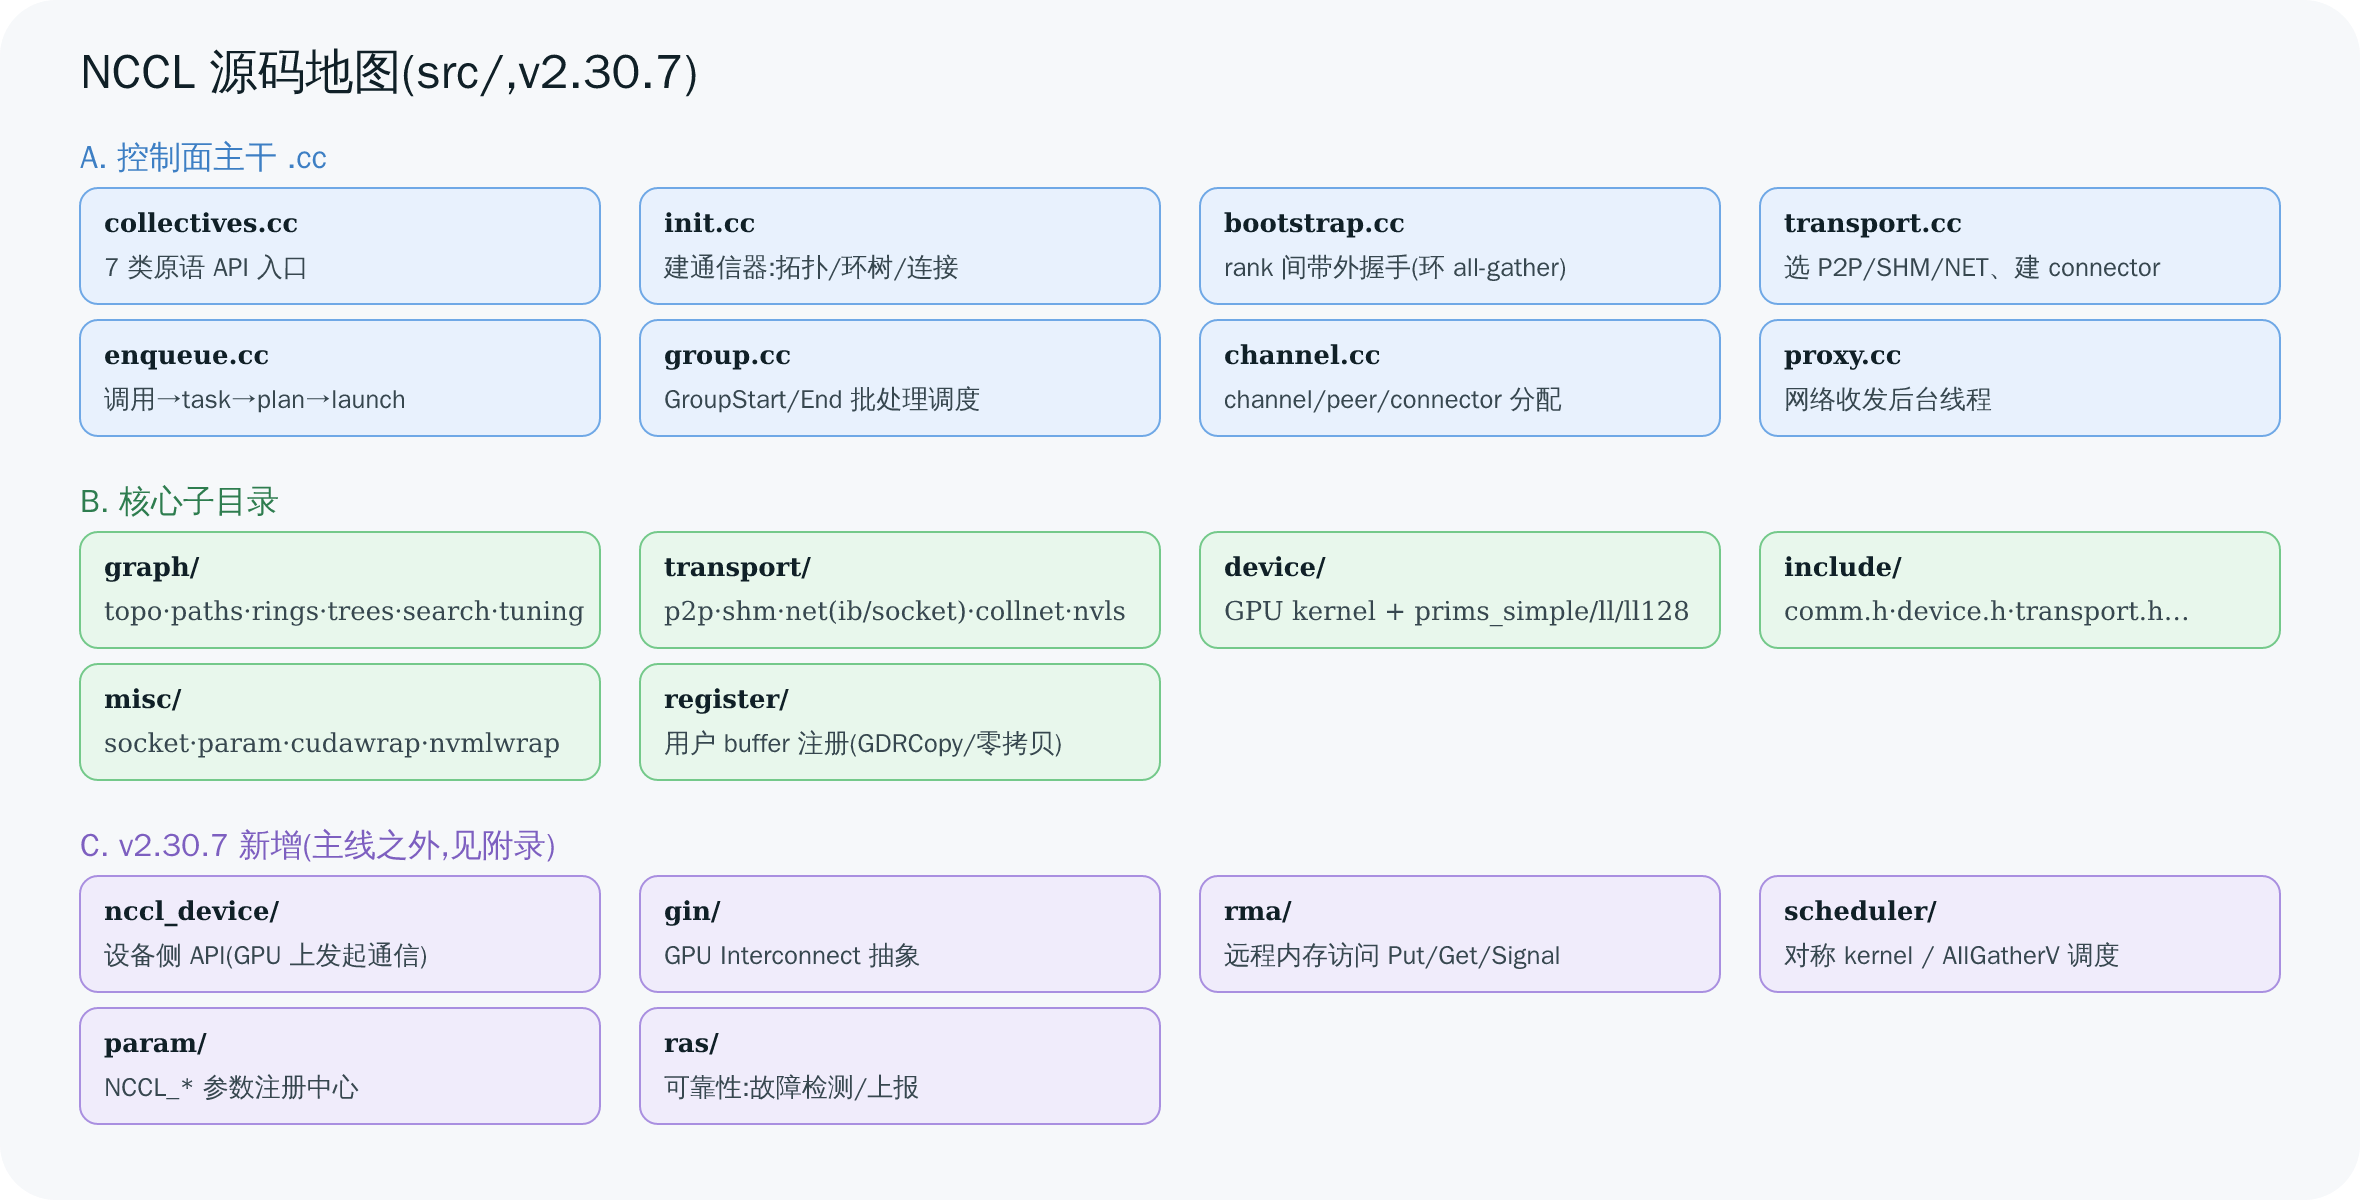
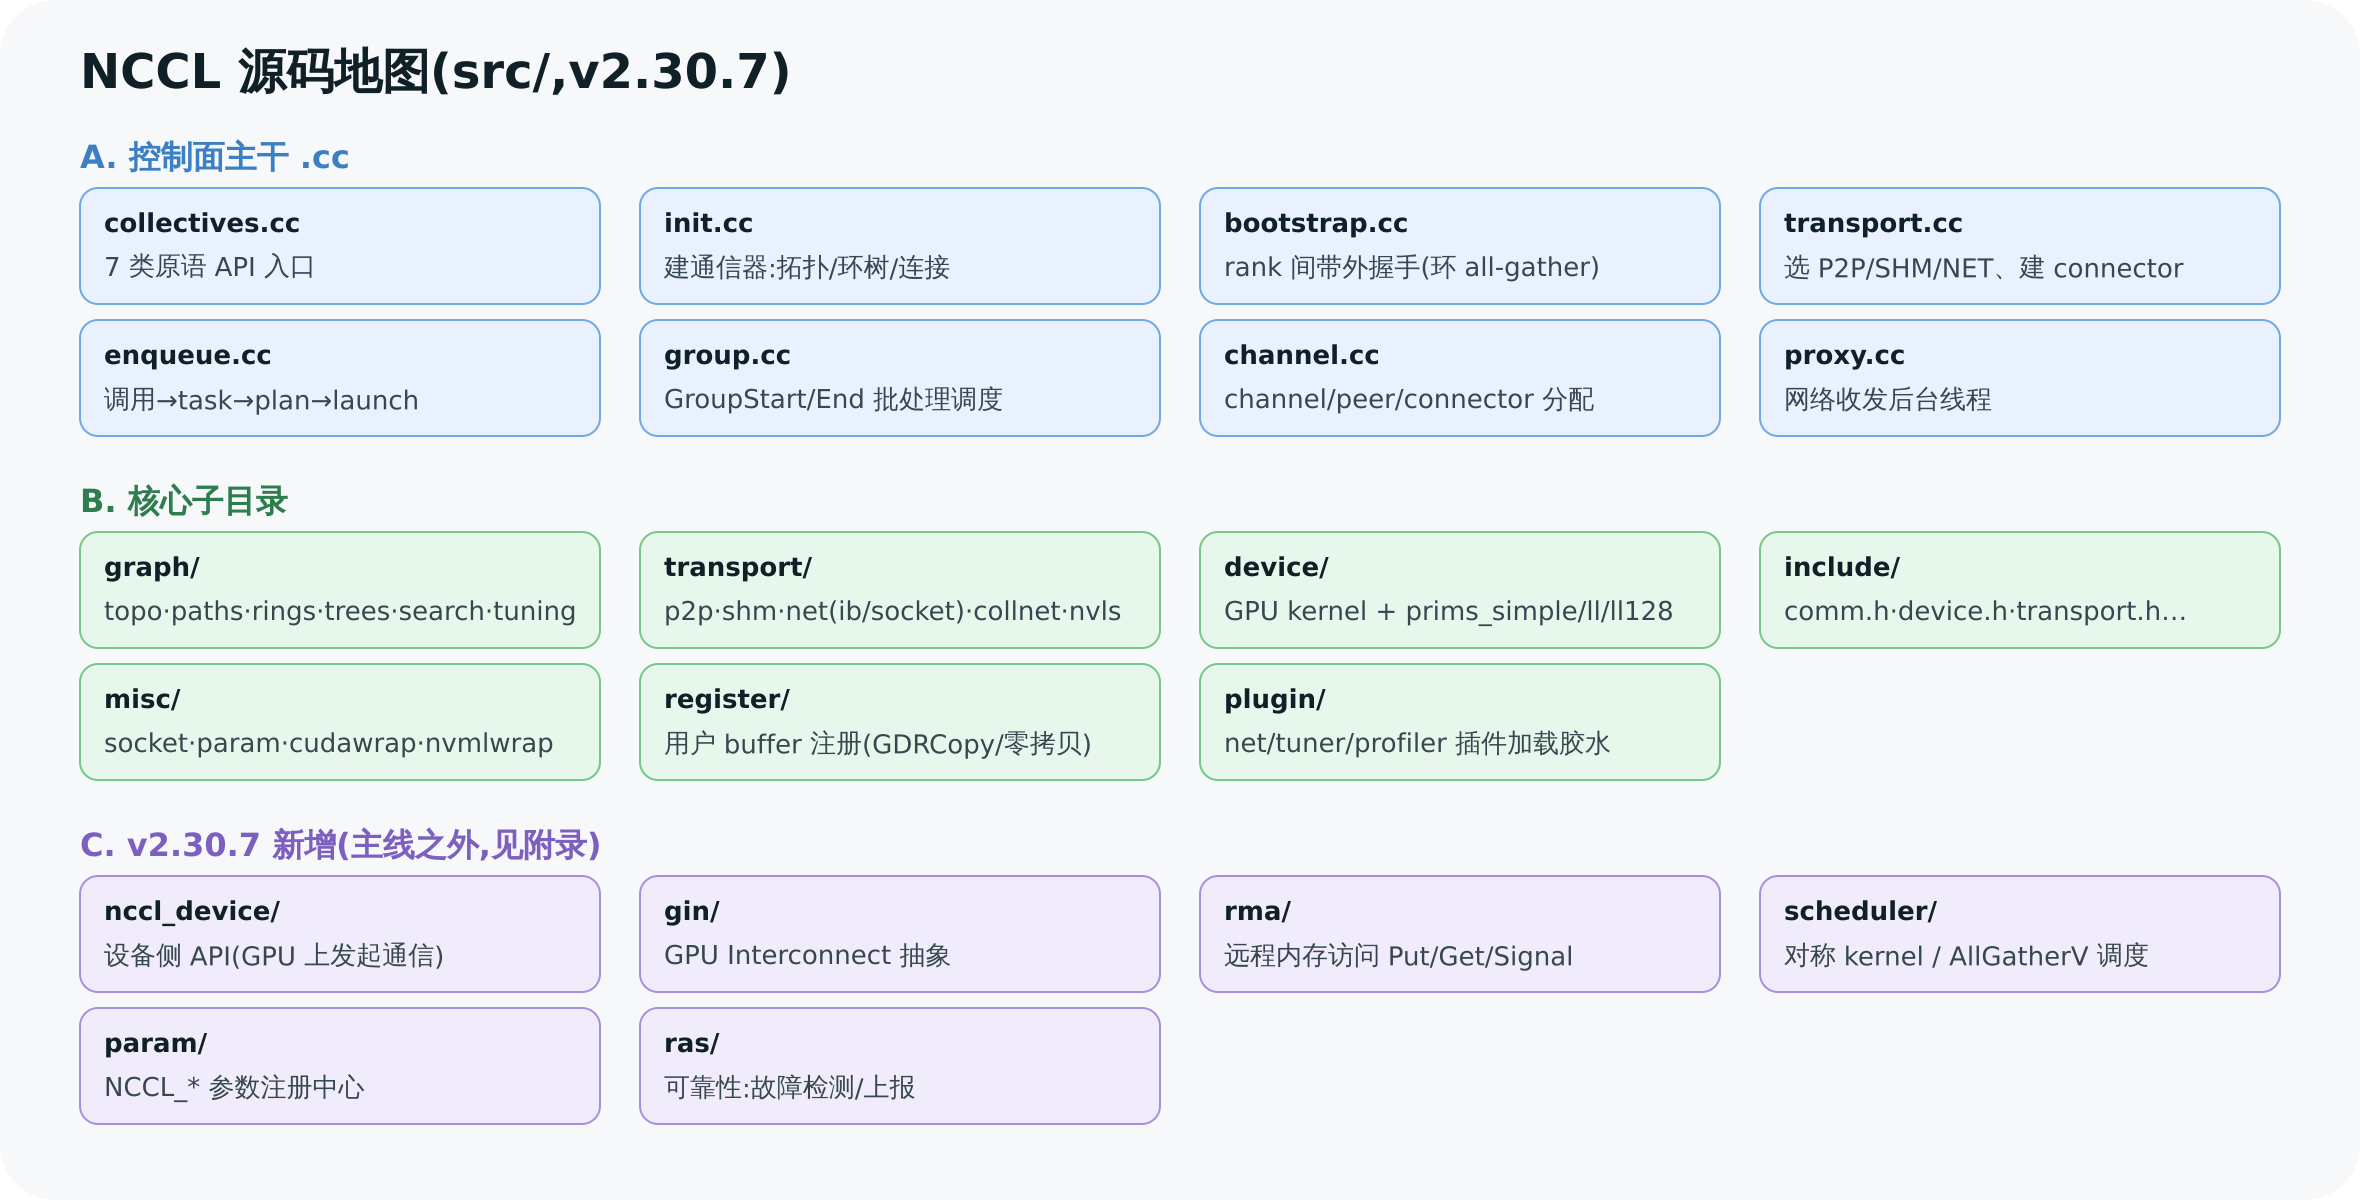
docs(nccl): fix fig9 label occlusion, add plugin/ to fig4, add fig19 perf model to ch11

diff --git a/wiki/nccl/11-tuning-and-perf.md b/wiki/nccl/11-tuning-and-perf.md
@@ -2,7 +2,7 @@
 type: topic
 title: "11 调优与性能模型"
 created: 2026-06-30
-updated: 2026-06-30
+updated: 2026-07-02
 tags:
   - nccl
   - tuning
@@ -54,7 +54,13 @@ NCCL 在 init 时为每个 (集合, 算法, 协议) 建成本表(`ncclTopoTuneMo
 time = 延迟 + 数据量 / 带宽
 ```
 
-选 time 最小的组合(`enqueue.cc` 的 `topoGetAlgoInfo`)。**小消息延迟主导 → Tree/LL;大消息带宽主导 → Ring/Simple。** 多数情况信任它即可。下面的环境变量是"模型选错"或"排障"时的手动旋钮。
+选 time 最小的组合(`enqueue.cc:2028` 的 `topoGetAlgoInfo`;公式本体在 `ncclTopoGetAlgoTime`,`tuning.cc:653`:`time = lat × latCount + nBytes/(1000 × bw)`)。**小消息延迟主导 → Tree/LL;大消息带宽主导 → Ring/Simple。** 多数情况信任它即可。下面的环境变量是"模型选错"或"排障"时的手动旋钮。
+
+把这两件事画在一起——左边是调优模型"换挡"的原理,右边是你在 nccl-tests 里实际看到的 busbw 曲线:
+
+![图19:NCCL 性能模型 — time=延迟+字节数/带宽 的自动换挡逻辑,与 busbw 随消息大小逼近硬件峰值的曲线 图解](../../_attachments/nccl/19-perf-model.png)
+
+> 图解源文件:[`19-perf-model.svg`](../../_attachments/nccl/src/19-perf-model.svg)
 
 ---
 